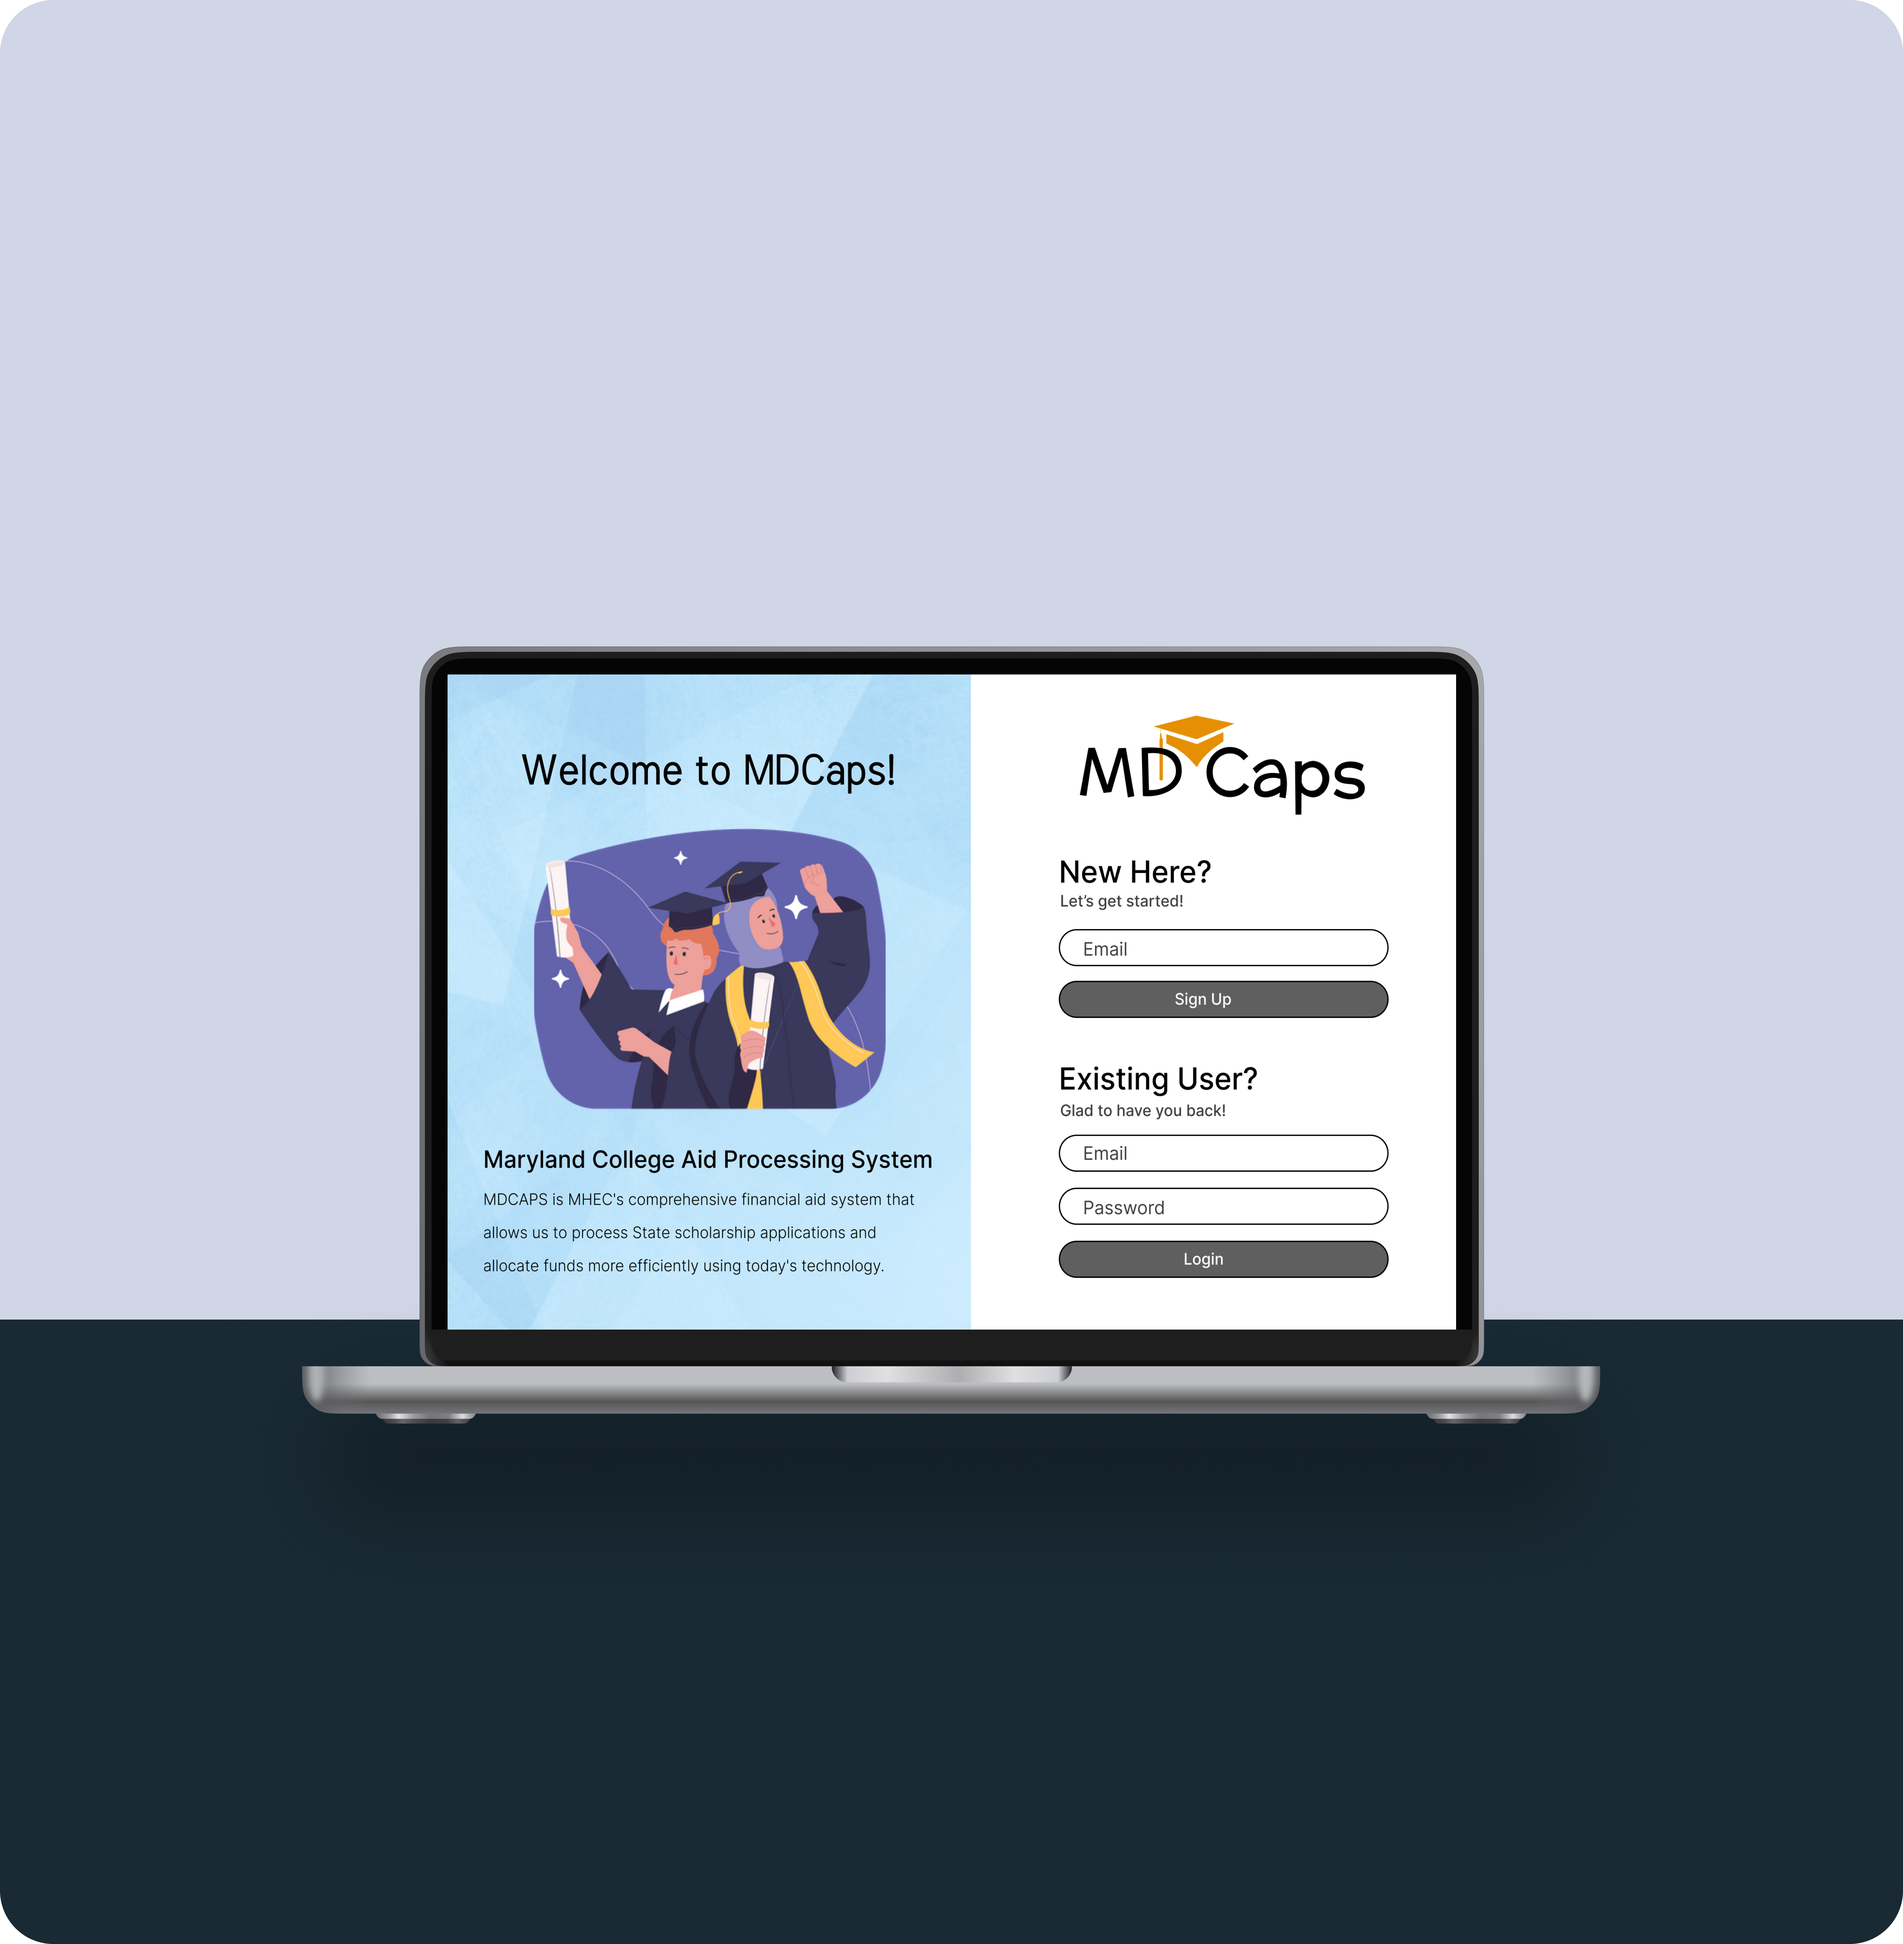
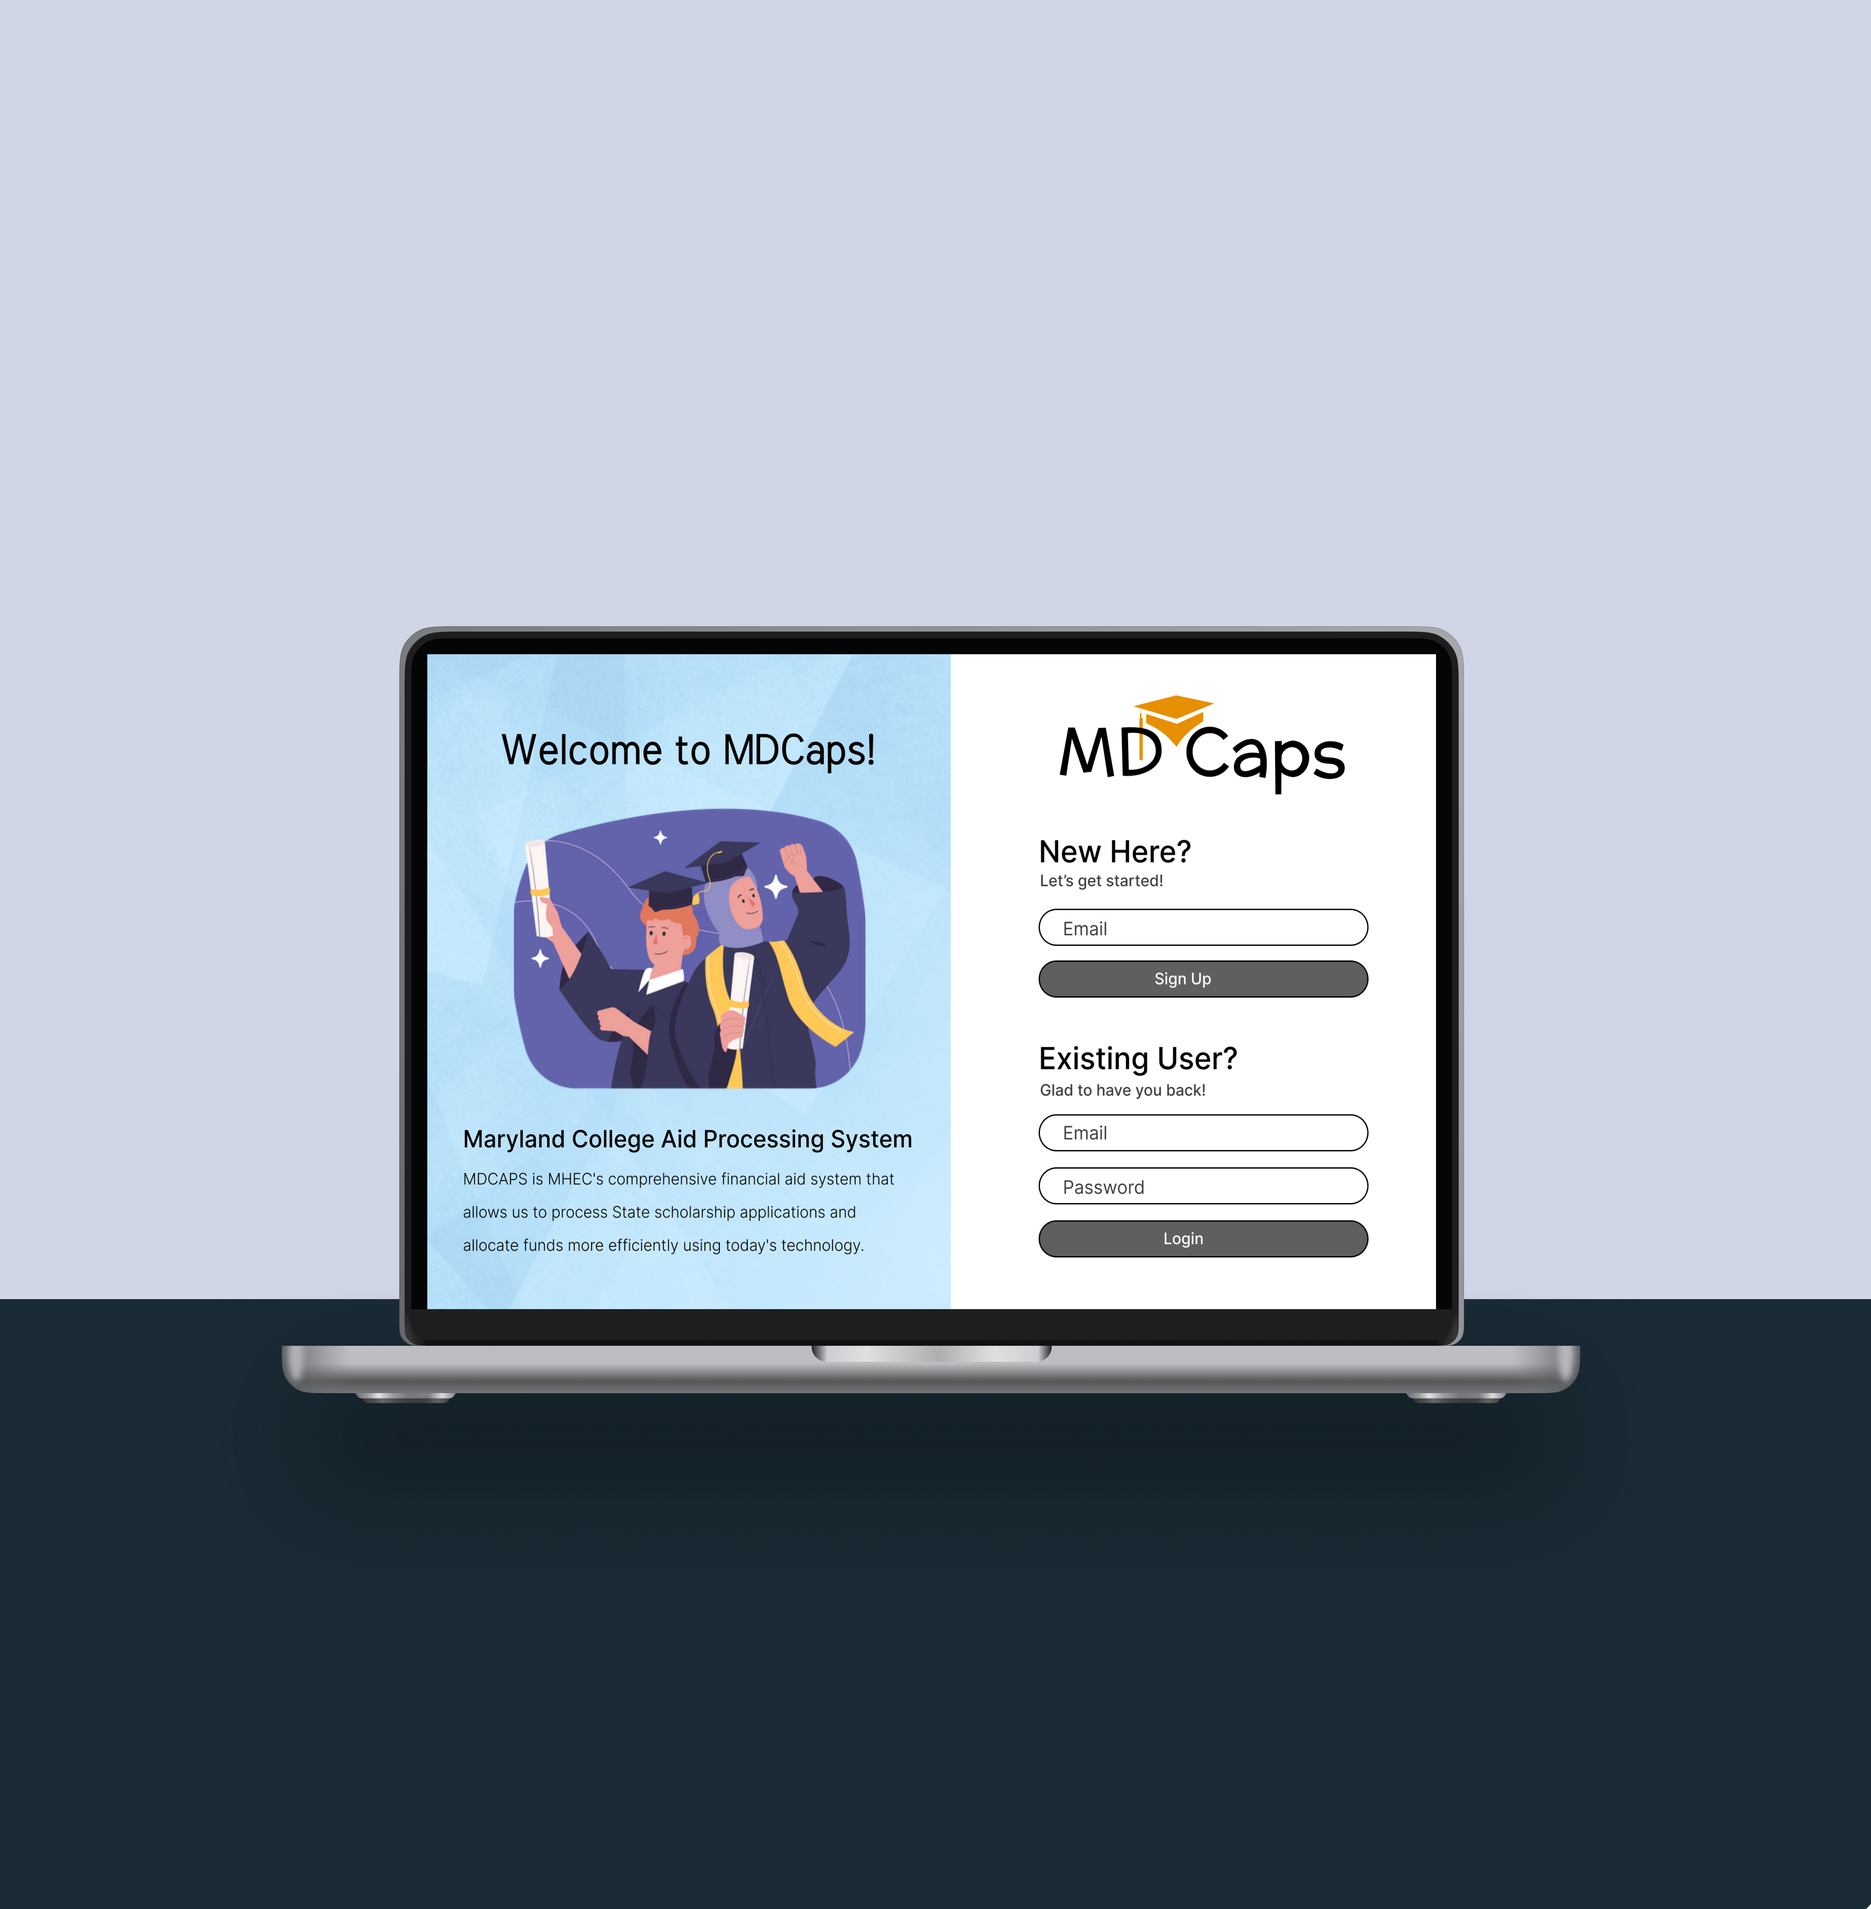
skee

diff --git a/projects.html b/projects.html
@@ -47,7 +47,7 @@
     <!-- Projects Gallery -->
     <section class="projects-section section">
         <div class="projects-grid container">
-            <div class="project-card" data-filter="case-study">
+            <div class="project-card" data-filter="case-study" data-order="6">
                 <div class="project-content">
                     <span class="project-category">UX Research & Visual Design</span>
                     <h3>Wander: Travel Assistant</h3>
@@ -63,7 +63,7 @@
                     <img src="assets/project1.png" alt="Wander Travel Assistant">
                 </div>
             </div>
-            <div class="project-card" data-filter="case-study">
+            <div class="project-card" data-filter="case-study" data-order="5">
                 <div class="project-content">
                     <span class="project-category">Interaction & Visual Design</span>
                     <h3>First Round: Job Matcher</h3>
@@ -78,7 +78,7 @@
                     <img src="assets/project2.png" alt="First Round Job Matcher">
                 </div>
             </div>
-            <div class="project-card" data-filter="case-study">
+            <div class="project-card" data-filter="case-study" data-order="4">
                 <div class="project-content">
                     <span class="project-category">Programming & Visual Design</span>
                     <h3>Palate: Restaurants Near Me</h3>
@@ -94,7 +94,7 @@
                     <img src="assets/project3.png" alt="Palate Restaurants Near Me">
                 </div>
             </div>
-            <div class="project-card" data-filter="redesign">
+            <div class="project-card" data-filter="redesign" data-order="2">
                 <div class="project-content">
                     <span class="project-category">UX & UI Redesign</span>
                     <h3>MDCaps: Maryland Financial Aid</h3>
@@ -109,7 +109,7 @@
                     <img src="assets/project4.png" alt="MDCaps Maryland Financial Aid">
                 </div>
             </div>
-            <div class="project-card" data-filter="graphic-design">
+            <div class="project-card" data-filter="graphic-design" data-order="3">
                 <div class="project-content">
                     <span class="project-category">Brand Identity & Visual Design</span>
                     <h3>CAACURH: Regional Leadership Conference Conference Design</h3>
@@ -126,7 +126,7 @@
                     <img src="assets/project7.png" alt="CAACURH Regional Leadership Conference">
                 </div>
             </div>
-            <div class="project-card" data-filter="industrial-design">
+            <div class="project-card" data-filter="industrial-design" data-order="7">
                 <div class="project-content">
                     <span class="project-category">3D Prototyping & Interaction Design</span>
                     <h3>Urban Drifters: Self-Driving Scooter</h3>
@@ -142,7 +142,7 @@
                     <img src="assets/scooter.png" alt="Urban Drifters">
                 </div>
             </div>
-            <div class="project-card" data-filter="industrial-design">
+            <div class="project-card" data-filter="industrial-design" data-order="1">
                 <div class="project-content">
                     <span class="project-category">3D Prototyping & Wearable Technology</span>
                     <h3>Exoskeleton Knee Brace: Stroke Patient Assistance</h3>
@@ -214,16 +214,6 @@
             const noResultsMessage = document.getElementById('no-results');
             const projectsGrid = document.querySelector('.projects-grid');
 
-            // Function to shuffle array (Fisher-Yates algorithm)
-            function shuffleArray(array) {
-                const shuffled = Array.from(array);
-                for (let i = shuffled.length - 1; i > 0; i--) {
-                    const j = Math.floor(Math.random() * (i + 1));
-                    [shuffled[i], shuffled[j]] = [shuffled[j], shuffled[i]];
-                }
-                return shuffled;
-            }
-
             // Function to reorder cards in DOM
             function reorderCards(cardsArray) {
                 cardsArray.forEach(card => {
@@ -245,10 +235,14 @@
                     }
                 });
 
-                // If "all" is selected, shuffle the visible cards
+                // If "all" is selected, sort by data-order in reverse chronological order (newest first)
                 if (filterValue === 'all' && visibleCards.length > 0) {
-                    const shuffledCards = shuffleArray(visibleCards);
-                    reorderCards(shuffledCards);
+                    visibleCards.sort((a, b) => {
+                        const orderA = parseInt(a.getAttribute('data-order')) || 0;
+                        const orderB = parseInt(b.getAttribute('data-order')) || 0;
+                        return orderB - orderA; // Descending order (newest first)
+                    });
+                    reorderCards(visibleCards);
                 }
 
                 // Now show/hide cards with animation
@@ -296,6 +290,9 @@
                     filterProjects(filterValue);
                 });
             });
+
+            // Initialize with "all" filter to show projects in reverse chronological order
+            filterProjects('all');
         });
     </script>
 </body>

diff --git a/styles.css b/styles.css
@@ -1351,12 +1351,14 @@ footer::before {
 
 .project-card {
     background: rgba(0, 0, 0, 0.8);
-    border-radius: clamp(0.75rem, 2vw, 1.25rem) 0 0 clamp(0.75rem, 2vw, 1.25rem);
+    border-radius: clamp(0.75rem, 2vw, 1.25rem);
     overflow: hidden;
     box-shadow: 0 clamp(0.125rem, 1vw, 0.25rem) clamp(1.25rem, 4vw, 1.25rem) rgba(0, 0, 0, 0.2);
     transition: transform 0.3s ease, box-shadow 0.3s ease, opacity 0.3s ease;
     display: grid;
     grid-template-columns: 1fr 1fr;
+    grid-template-rows: 1fr;
+    align-items: stretch;
     gap: clamp(1rem, 3vw, 1.5rem);
     border: clamp(0.0625rem, 0.2vw, 0.09375rem) solid rgba(255, 105, 180, 0.1);
     backdrop-filter: blur(clamp(0.3125rem, 1vw, 0.625rem));
@@ -1365,6 +1367,7 @@ footer::before {
     max-width: 1050px;
     margin-left: auto;
     margin-right: auto;
+    min-height: clamp(20rem, 30vw, 25rem);
 }
 
 .project-card:hover {
@@ -1434,8 +1437,8 @@ footer::before {
     position: relative;
     overflow: hidden;
     border-radius: 0 clamp(0.75rem, 2vw, 1.25rem) clamp(0.75rem, 2vw, 1.25rem) 0;
-    aspect-ratio: 1 / 1;
     width: 100%;
+    height: 100%;
     display: flex;
     align-items: center;
     justify-content: center;
